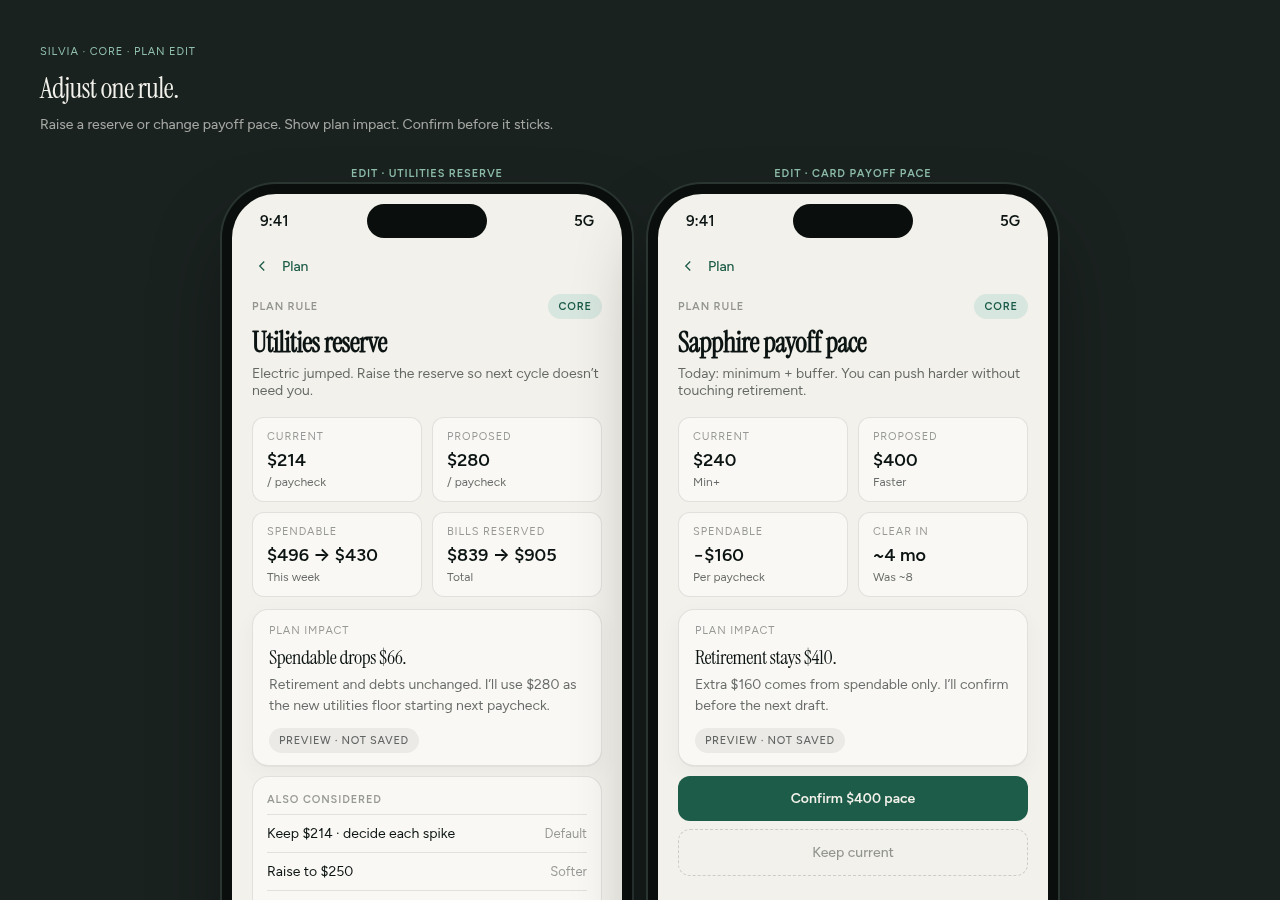
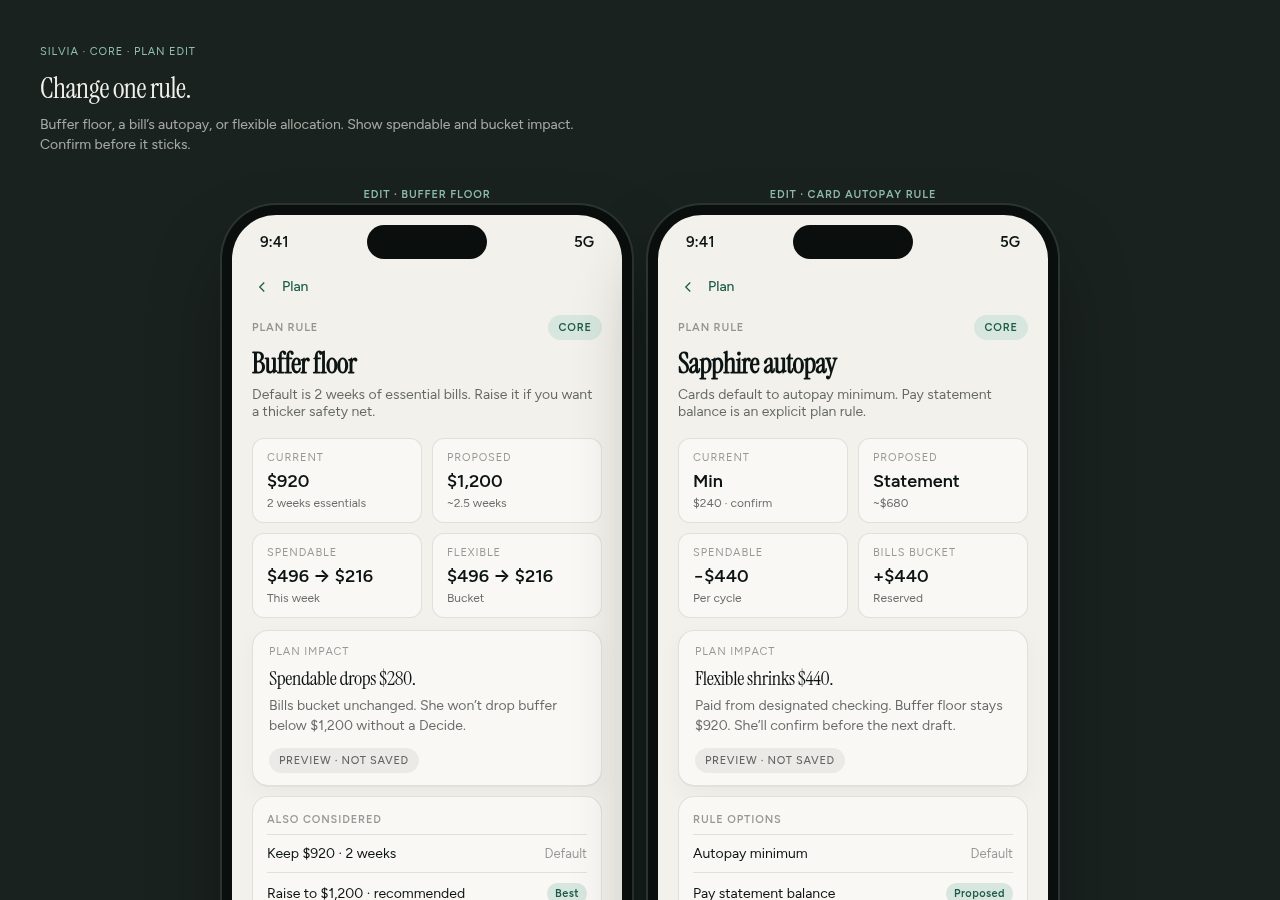
Design: Align plan UI to CORE-PLAN.md

diff --git a/shell/plan-edit.html b/shell/plan-edit.html
@@ -13,13 +13,13 @@
 <body>
   <div class="meta">
     <div class="tag">Silvia · Core · Plan edit</div>
-    <h1>Adjust one rule.</h1>
-    <p>Raise a reserve or change payoff pace. Show plan impact. Confirm before it sticks.</p>
+    <h1>Change one rule.</h1>
+    <p>Buffer floor, a bill’s autopay, or flexible allocation. Show spendable and bucket impact. Confirm before it sticks.</p>
   </div>
 
   <div class="row">
     <div class="col">
-      <div class="col-label">Edit · Utilities reserve</div>
+      <div class="col-label">Edit · Buffer floor</div>
       <div class="device">
         <div class="notch"></div>
         <div class="status-bar"><span>9:41</span><span>5G</span></div>
@@ -32,31 +32,31 @@
             <div class="detail-type" style="margin:0">Plan rule</div>
             <span class="tier">Core</span>
           </div>
-          <h1 class="detail-title">Utilities reserve</h1>
-          <p class="detail-sub">Electric jumped. Raise the reserve so next cycle doesn’t need you.</p>
+          <h1 class="detail-title">Buffer floor</h1>
+          <p class="detail-sub">Default is 2 weeks of essential bills. Raise it if you want a thicker safety net.</p>
 
           <div class="stat-grid">
-            <div class="stat"><div class="k">Current</div><div class="v">$214</div><div class="s">/ paycheck</div></div>
-            <div class="stat"><div class="k">Proposed</div><div class="v">$280</div><div class="s">/ paycheck</div></div>
-            <div class="stat"><div class="k">Spendable</div><div class="v">$496 → $430</div><div class="s">This week</div></div>
-            <div class="stat"><div class="k">Bills reserved</div><div class="v">$839 → $905</div><div class="s">Total</div></div>
+            <div class="stat"><div class="k">Current</div><div class="v">$920</div><div class="s">2 weeks essentials</div></div>
+            <div class="stat"><div class="k">Proposed</div><div class="v">$1,200</div><div class="s">~2.5 weeks</div></div>
+            <div class="stat"><div class="k">Spendable</div><div class="v">$496 → $216</div><div class="s">This week</div></div>
+            <div class="stat"><div class="k">Flexible</div><div class="v">$496 → $216</div><div class="s">Bucket</div></div>
           </div>
 
           <div class="card">
             <div class="k">Plan impact</div>
-            <h2>Spendable drops $66.</h2>
-            <p>Retirement and debts unchanged. I’ll use $280 as the new utilities floor starting next paycheck.</p>
+            <h2>Spendable drops $280.</h2>
+            <p>Bills bucket unchanged. She won’t drop buffer below $1,200 without a Decide.</p>
             <span class="badge quiet">Preview · not saved</span>
           </div>
 
           <div class="list-card">
             <div class="list-head">Also considered</div>
-            <div class="list-row"><span>Keep $214 · decide each spike</span><span class="muted">Default</span></div>
-            <div class="list-row"><span>Raise to $250</span><span class="muted">Softer</span></div>
-            <div class="list-row tappable"><span>Raise to $280 · recommended</span><span class="pill forest">Best</span></div>
+            <div class="list-row"><span>Keep $920 · 2 weeks</span><span class="muted">Default</span></div>
+            <div class="list-row tappable"><span>Raise to $1,200 · recommended</span><span class="pill forest">Best</span></div>
+            <div class="list-row"><span>Raise to $1,500</span><span class="muted">Thicker</span></div>
           </div>
 
-          <div class="action-btn primary" style="width:100%">Confirm $280 reserve</div>
+          <div class="action-btn primary" style="width:100%">Confirm $1,200 floor</div>
         </div>
         <nav class="tabs" data-active="money"></nav>
         <div class="home-indicator"></div>
@@ -64,7 +64,7 @@
     </div>
 
     <div class="col">
-      <div class="col-label">Edit · Card payoff pace</div>
+      <div class="col-label">Edit · Card autopay rule</div>
       <div class="device">
         <div class="notch"></div>
         <div class="status-bar"><span>9:41</span><span>5G</span></div>
@@ -77,25 +77,32 @@
             <div class="detail-type" style="margin:0">Plan rule</div>
             <span class="tier">Core</span>
           </div>
-          <h1 class="detail-title">Sapphire payoff pace</h1>
-          <p class="detail-sub">Today: minimum + buffer. You can push harder without touching retirement.</p>
+          <h1 class="detail-title">Sapphire autopay</h1>
+          <p class="detail-sub">Cards default to autopay minimum. Pay statement balance is an explicit plan rule.</p>
 
           <div class="stat-grid">
-            <div class="stat"><div class="k">Current</div><div class="v">$240</div><div class="s">Min+</div></div>
-            <div class="stat"><div class="k">Proposed</div><div class="v">$400</div><div class="s">Faster</div></div>
-            <div class="stat"><div class="k">Spendable</div><div class="v">−$160</div><div class="s">Per paycheck</div></div>
-            <div class="stat"><div class="k">Clear in</div><div class="v">~4 mo</div><div class="s">Was ~8</div></div>
+            <div class="stat"><div class="k">Current</div><div class="v">Min</div><div class="s">$240 · confirm</div></div>
+            <div class="stat"><div class="k">Proposed</div><div class="v">Statement</div><div class="s">~$680</div></div>
+            <div class="stat"><div class="k">Spendable</div><div class="v">−$440</div><div class="s">Per cycle</div></div>
+            <div class="stat"><div class="k">Bills bucket</div><div class="v">+$440</div><div class="s">Reserved</div></div>
           </div>
 
           <div class="card">
             <div class="k">Plan impact</div>
-            <h2>Retirement stays $410.</h2>
-            <p>Extra $160 comes from spendable only. I’ll confirm before the next draft.</p>
+            <h2>Flexible shrinks $440.</h2>
+            <p>Paid from designated checking. Buffer floor stays $920. She’ll confirm before the next draft.</p>
             <span class="badge quiet">Preview · not saved</span>
           </div>
 
-          <div class="action-btn primary" style="width:100%">Confirm $400 pace</div>
-          <div class="action-btn ghost" style="width:100%;margin-top:8px">Keep current</div>
+          <div class="list-card">
+            <div class="list-head">Rule options</div>
+            <div class="list-row"><span>Autopay minimum</span><span class="muted">Default</span></div>
+            <div class="list-row tappable"><span>Pay statement balance</span><span class="pill forest">Proposed</span></div>
+            <div class="list-row"><span>Off · ask each cycle</span><span class="muted">Manual</span></div>
+          </div>
+
+          <div class="action-btn primary" style="width:100%">Confirm statement pay</div>
+          <div class="action-btn ghost" style="width:100%;margin-top:8px">Keep minimum</div>
         </div>
         <nav class="tabs" data-active="money"></nav>
         <div class="home-indicator"></div>

diff --git a/shell/plan.html b/shell/plan.html
@@ -13,8 +13,8 @@
 <body>
   <div class="meta">
     <div class="tag">Silvia · Core · Plan</div>
-    <h1>The plan she follows.</h1>
-    <p>Spendable, buckets, rules — bills reserved, debts scheduled, retirement contribution. Core household ops. Not investing Autopilot.</p>
+    <h1>Bread-and-butter auto bill pay + planning.</h1>
+    <p>Income and expenses in → spendable, buckets, and autopay out. She pays bills inside the plan and only pulls you when a guardrail breaks. Not investing Autopilot.</p>
   </div>
 
   <div class="row">
@@ -29,16 +29,22 @@
             Money
           </div>
           <div class="eyebrow">Money · Plan</div>
-          <h1 class="hero">No plan yet.</h1>
-          <p class="lede empty">Once accounts connect, Silvia builds a plan — reserves, schedules, and what’s yours to spend.</p>
+          <h1 class="hero">Waiting on you.</h1>
+          <p class="lede empty">Silvia needs income or expenses before she builds a plan. She never invents numbers.</p>
           <div class="card empty">
-            <div class="k">Spendable</div>
+            <div class="k">Inputs</div>
             <h2 class="num empty-num">—</h2>
-            <p>Appears after the first paycheck route.</p>
+            <p>Link payroll / bills, or type net pay and a bill list.</p>
           </div>
           <div class="list-card empty">
-            <div class="list-head">Rules she’ll follow</div>
-            <div class="list-row"><span class="muted">Waiting on accounts</span></div>
+            <div class="list-head">Still needed</div>
+            <div class="list-row"><span>Income</span><span class="muted">Waiting</span></div>
+            <div class="list-row"><span>Expenses</span><span class="muted">Waiting</span></div>
+          </div>
+          <div class="card empty crosslink">
+            <div class="k">Then</div>
+            <h2>Spendable · buckets · autopay.</h2>
+            <p>Once both land, she proposes a plan you confirm once.</p>
           </div>
         </div>
         <nav class="tabs" data-active="money"></nav>
@@ -61,30 +67,49 @@
             <span class="tier">Core</span>
           </div>
           <h1 class="hero">Anthony’s plan.</h1>
-          <p class="lede">Built from this paycheck. She follows these rules until you change one.</p>
+          <p class="lede">Built from income and expenses. She auto-pays inside these rules until you change one.</p>
+
+          <div class="stat-grid">
+            <div class="stat"><div class="k">Income</div><div class="v">$3,840</div><div class="s">Net paycheck · biweekly</div></div>
+            <div class="stat"><div class="k">Expenses</div><div class="v">$2,679</div><div class="s">Bills total · this cycle</div></div>
+          </div>
 
           <div class="card spend">
             <div class="k">Spendable this week</div>
             <h2 class="num">$496</h2>
-            <p>After bills, debts, and retirement. Really yours.</p>
+            <p>After bills and buffer floor. Money that can leave without breaking the plan.</p>
+          </div>
+
+          <div class="list-card">
+            <div class="list-head">Buckets</div>
+            <p class="section-note">Core set</p>
+            <div class="list-row tappable"><span>Bills</span><span><span class="pill">$2,679</span><span class="arrow">›</span></span></div>
+            <div class="list-row tappable"><span>Buffer</span><span><span class="pill">$920</span><span class="arrow">›</span></span></div>
+            <div class="list-row tappable"><span>Flexible</span><span><span class="pill">$496</span><span class="arrow">›</span></span></div>
+          </div>
+
+          <div class="list-card">
+            <div class="list-head">Autopay · bill schedule</div>
+            <p class="section-note">From checking · tap to adjust</p>
+            <div class="list-row tappable"><span>Mortgage</span><span><span class="pill forest">Autopay on</span><span class="arrow">›</span></span></div>
+            <div class="list-row tappable"><span>Auto loan</span><span><span class="pill forest">Autopay on</span><span class="arrow">›</span></span></div>
+            <div class="list-row tappable"><span>Internet</span><span><span class="pill forest">Autopay on</span><span class="arrow">›</span></span></div>
+            <div class="list-row tappable"><span>Sapphire</span><span><span class="pill">Min · confirm</span><span class="arrow">›</span></span></div>
+            <div class="list-row tappable"><span>Electric</span><span><span class="pill">Held · Decide</span><span class="arrow">›</span></span></div>
+          </div>
+
+          <div class="card">
+            <div class="k">Guardrail</div>
+            <h2>Buffer floor $920.</h2>
+            <p>Two weeks of essentials. She never drops below without a Decide. Never miss a priority bill.</p>
+            <span class="badge quiet">Open default</span>
           </div>
 
           <div class="card">
             <div class="k">Taken care of</div>
             <h2>Quiet proof.</h2>
-            <p>Electric held · Sapphire reserved · Paycheck routed Sep 21. No feed — just what ran.</p>
+            <p>Water paid · Phone autopay cleared · Paycheck routed Sep 21. She ran the plan overnight.</p>
             <span class="badge quiet">This cycle</span>
-          </div>
-
-          <div class="list-card">
-            <div class="list-head">Rules she follows</div>
-            <p class="section-note">Tap to adjust</p>
-            <div class="list-row tappable"><span>Bills reserved</span><span><span class="pill">$839</span><span class="arrow">›</span></span></div>
-            <div class="list-row tappable"><span>Cards · min+</span><span><span class="pill">$420</span><span class="arrow">›</span></span></div>
-            <div class="list-row tappable"><span>Auto loan scheduled</span><span><span class="pill">$385</span><span class="arrow">›</span></span></div>
-            <div class="list-row tappable"><span>Mortgage reserved</span><span><span class="pill">$1,840</span><span class="arrow">›</span></span></div>
-            <div class="list-row tappable"><span>Retirement contribution</span><span><span class="pill">$410</span><span class="arrow">›</span></span></div>
-            <div class="list-row tappable"><span>Utilities reserve</span><span><span class="pill">$214</span><span class="arrow">›</span></span></div>
           </div>
 
           <div class="card crosslink">

diff --git a/tokens/TOKENS.md b/tokens/TOKENS.md
@@ -211,9 +211,17 @@ Investments home: stocks, trading — **not** Money debts.
 - Shell: `money-audit.html`, `money-audit-finding.html`. Decide path: `decide-audit.html`.
 
 ### Plan (Money / Home framing)
-- Overview: spendable + rules she follows (bills reserved, debts scheduled, retirement contribution).
+**Source of truth:** `CORE-PLAN.md`.
+
+**Core job (one-liner):** Bread-and-butter auto bill pay + planning/budgeting — on track, bills on time, manage money. Foundation for wealth. **Not** investing Autopilot.
+
+**Model:** income + expenses → plan (spendable + Core buckets Bills · Buffer · Flexible + bill autopay schedule) → she runs it; **Decide** only on guardrail breaks (priority bill miss risk, buffer below floor, pay fail, audit gap).
+
+- Empty until income **or** expenses land — never invent numbers.
+- Live overview: inputs summary (income + expenses), spendable hero, Core buckets, autopay/bill schedule, buffer-floor guardrail, quiet taken-care-of crosslink. Retirement is not a Core bucket row.
+- Open defaults: buffer = 2 weeks essentials; cards autopay **minimum** (statement pay = explicit rule); pay from designated checking.
+- Edit one rule (buffer floor / bill autopay / flexible allocation); show spendable + bucket impact; confirm.
 - **Core household only** — not investing Autopilot rebalance.
-- Edit one rule/target; show plan impact; confirm.
 - Shell: `plan.html`, `plan-edit.html`. Decide path: `decide-plan.html` (conflict / break-plan).
 
 ### Decide exceptions (Core)
